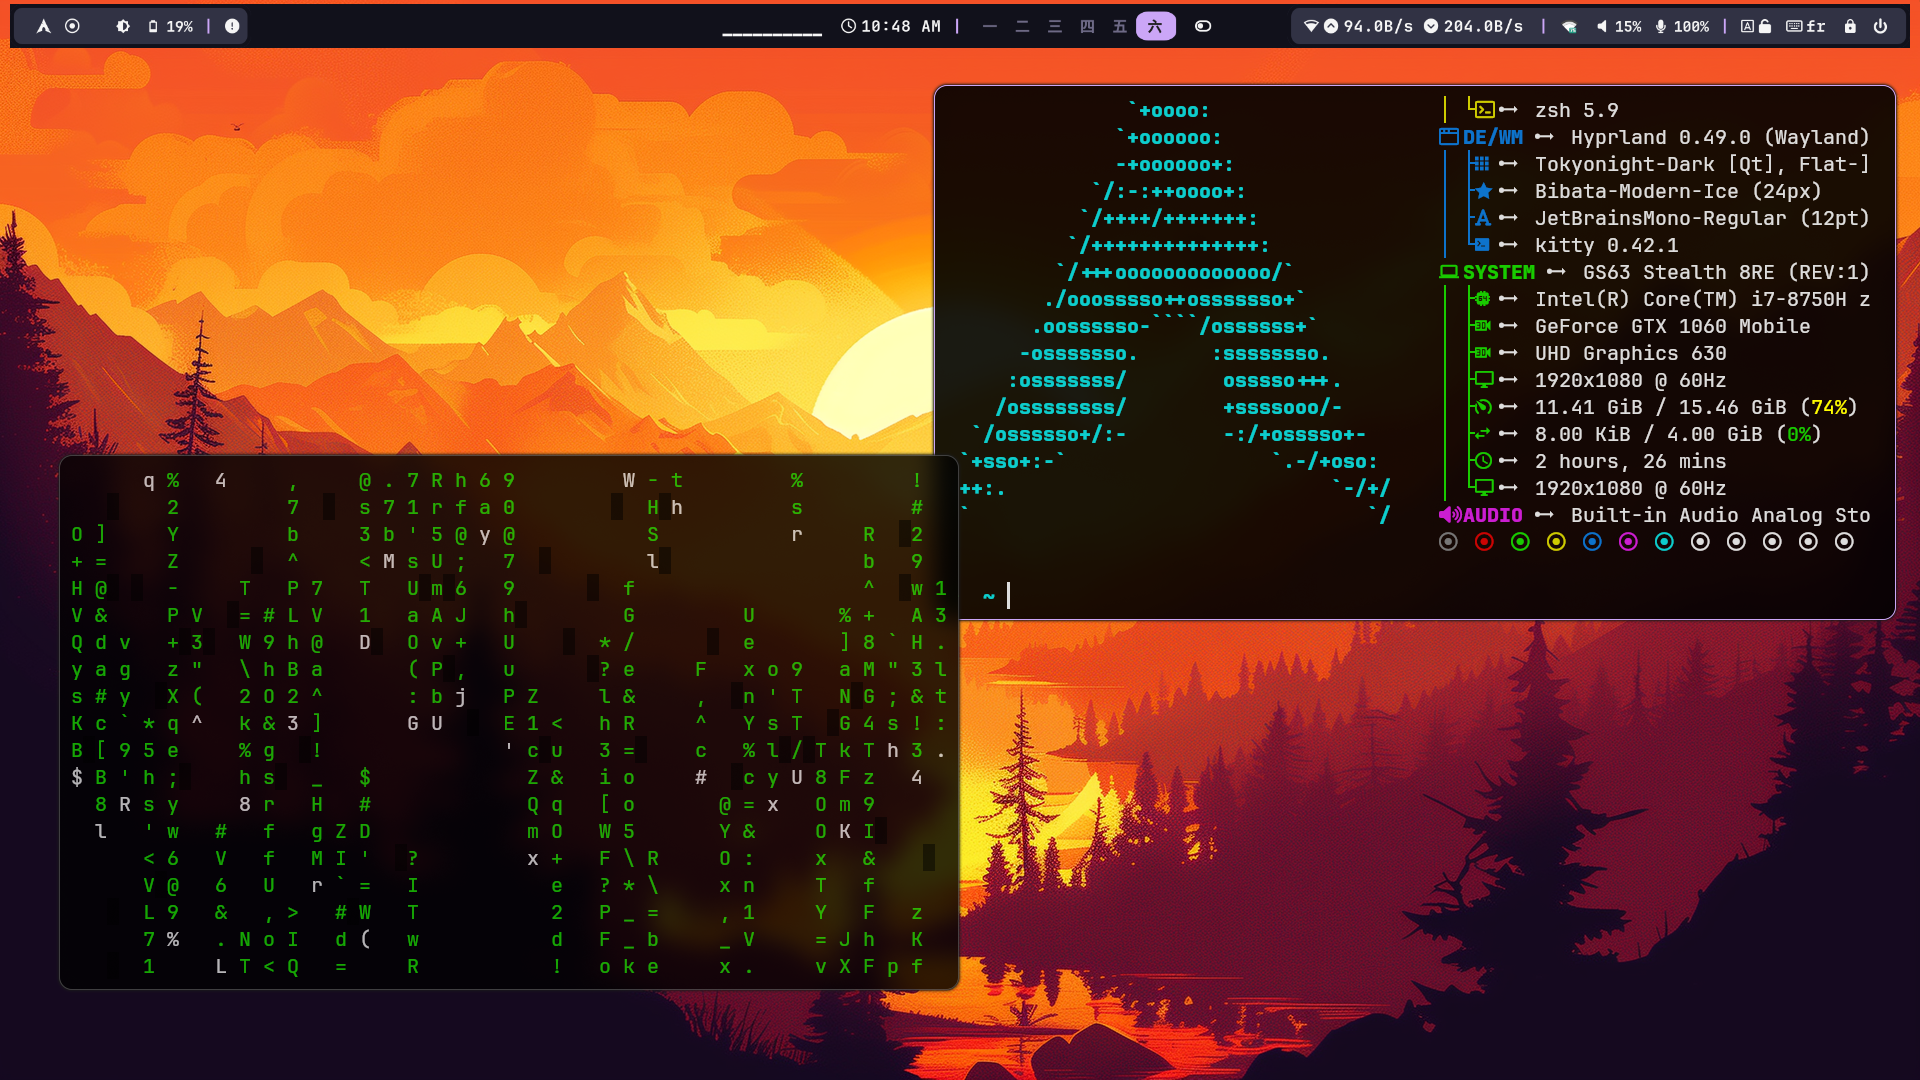
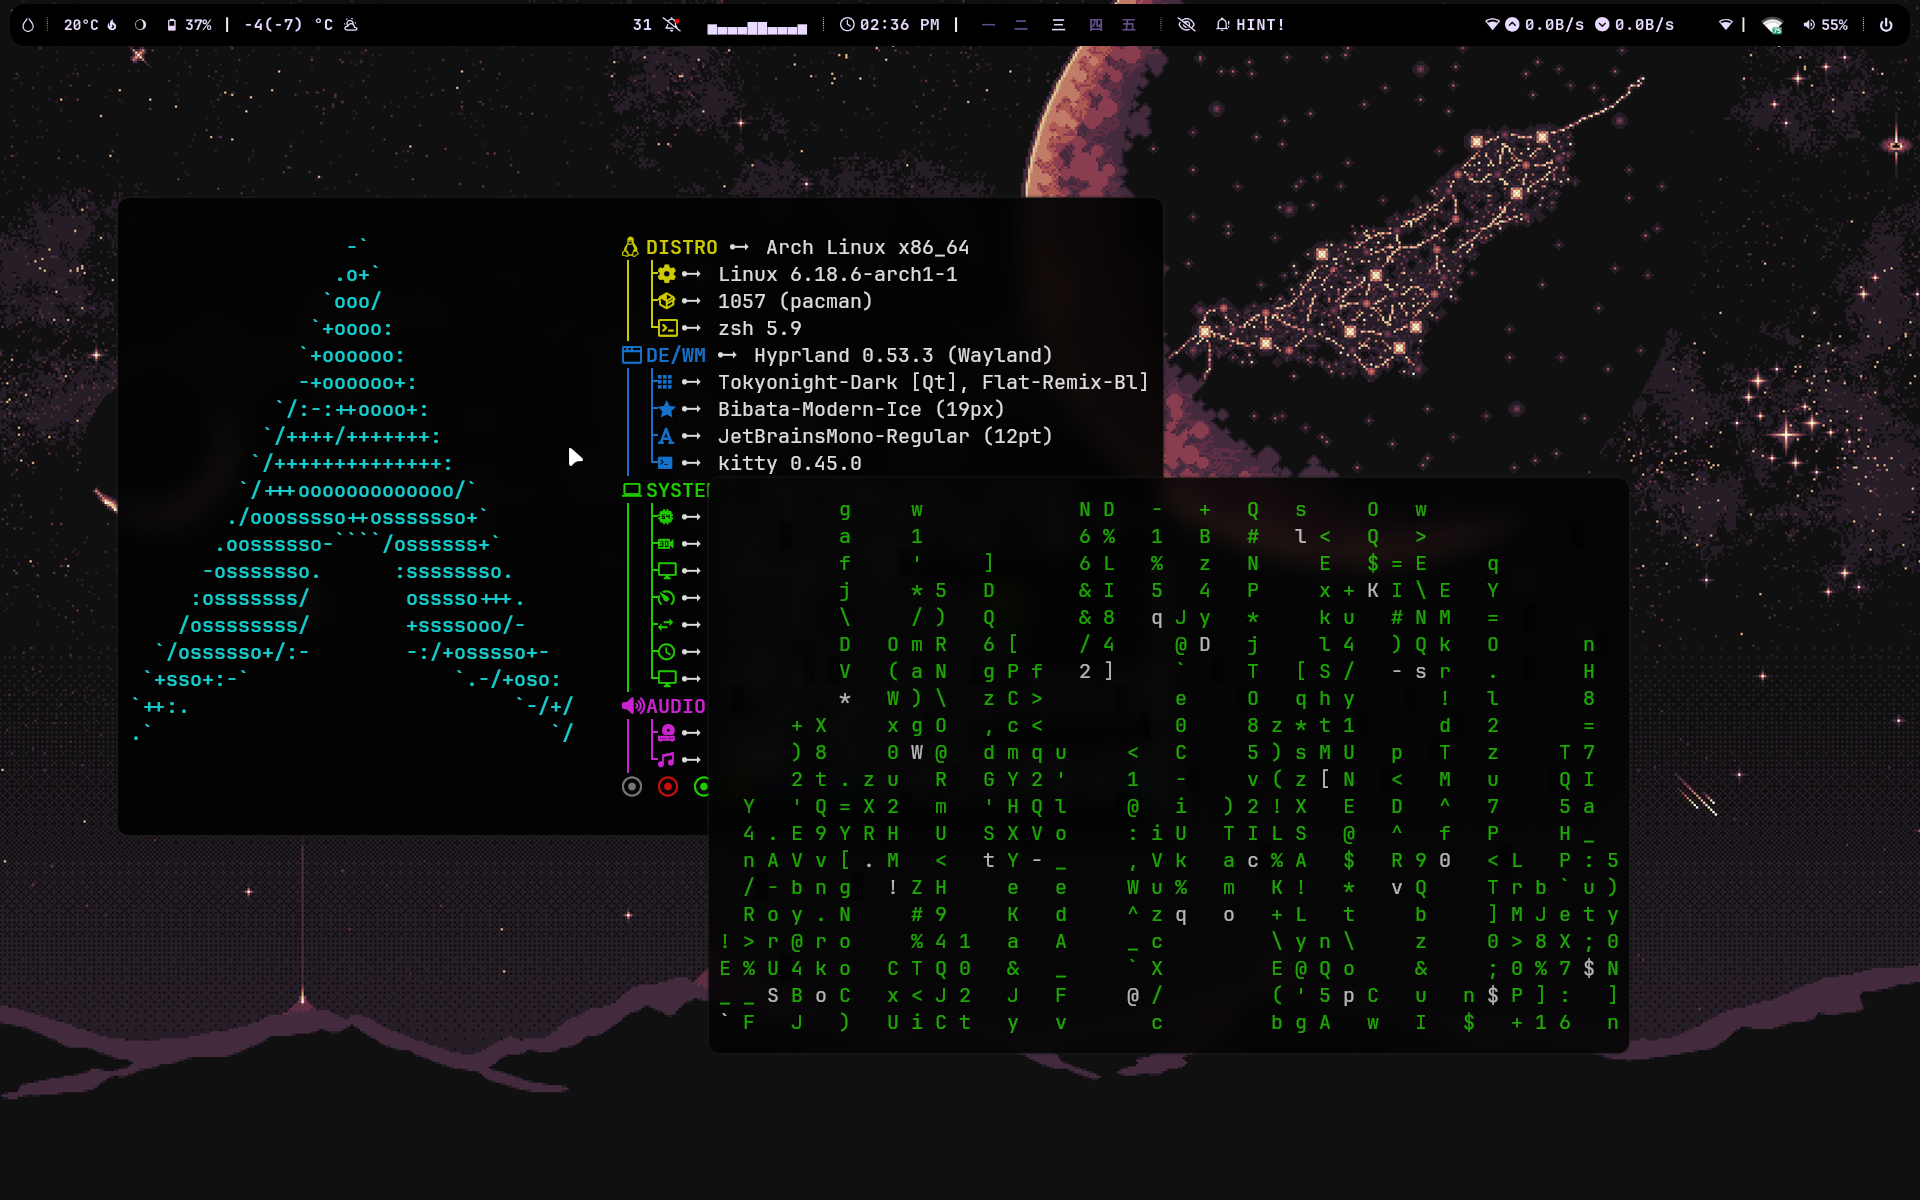
Refactor code structure for improved readability and maintainability

diff --git a/README.md b/README.md
@@ -2,7 +2,7 @@
 #### ⭐ If this helps you, please leave a star ⭐
  
 ## 
-![Hyprland Desktop Preview](https://github.com/user-attachments/assets/2e9e4f0a-e1d2-4e95-8371-1e8859d48257)
+![image](./screenshots/neovim_cava.png)
 ##
 ![image](./screenshots/rofi.png)
 ## 
